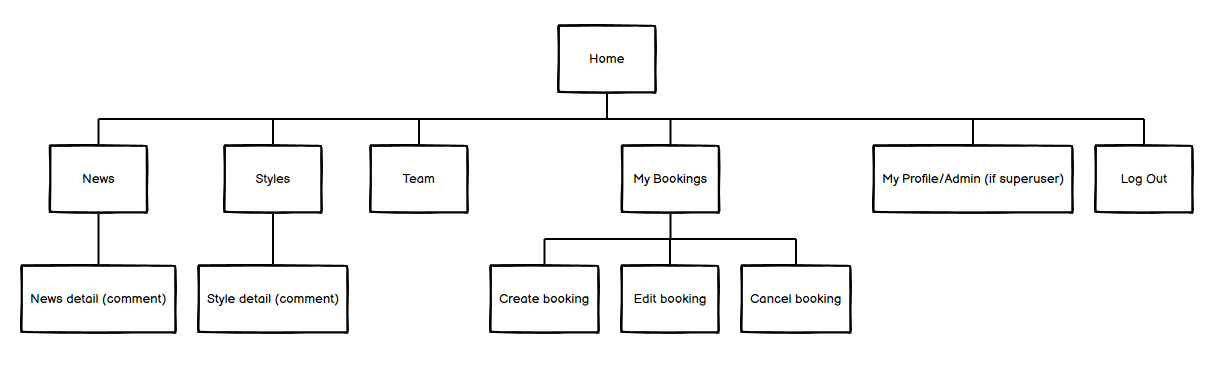
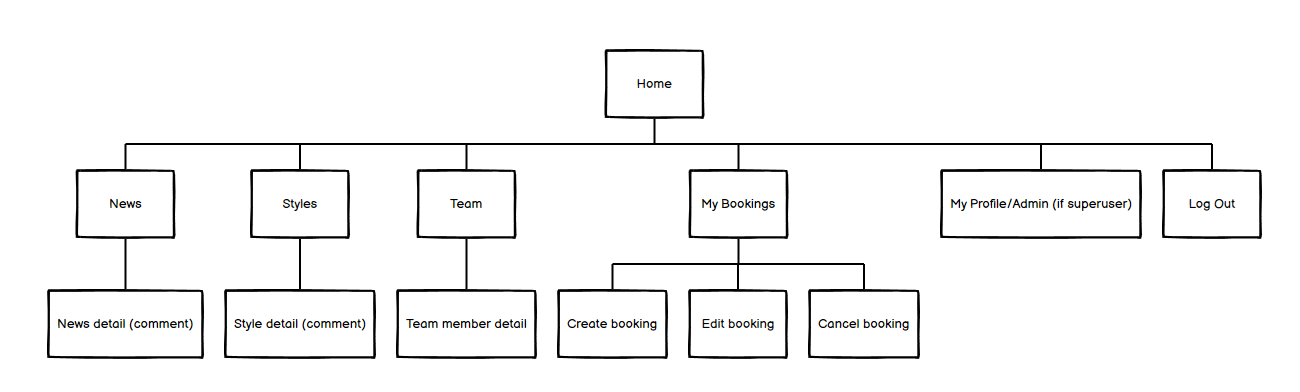
Add 3.3. Structure plane - readme

Changed region(s): [[0.0, 0.1189, 1.0, 0.9216], [0.4572, 0.0595, 0.5486, 0.0892]]

diff --git a/README.md b/README.md
@@ -72,7 +72,7 @@ As a thought process of the strategy plane, 12 epics were created and utilized. 
 
 ### **3.1.5 User stories**
 
-49 User stories were created based on the Epics. Each user story uses the MoSCoW prioritization technique. Each user story was also estimated for relative effort required to implement satisfactory result of acceptance criteria. My Story points are using a sequence inspired by the Fibonacci numbers (1, 2, 3, 5, 8, 13, etc.). This reflects the uncertainty and variability in estimating larger tasks. The idea was to easy distinguish the initial size of user story using this non-linear sequence. Each user story on the kanban board was given 2 labels (MoSCoW and Story Points).
+49 User stories were created based on the Epics. Each user story uses the MoSCoW prioritization technique. Each user story was also estimated for relative effort required to implement satisfactory result of acceptance criteria. My Story points are using a sequence inspired by the Fibonacci numbers (1, 2, 3, 5, 8, 13, etc.). This reflects the uncertainty and variability in estimating larger tasks. The idea was to easy distinguish the initial size of user story using this non-linear sequence. Each user story on the [Kanban Board](https://github.com/users/tomik-z-cech/projects/1/views/1) was given 2 labels (MoSCoW and Story Points).
 
 
 **MoSCoW prioritization technique stands for**:
@@ -259,7 +259,47 @@ View User Stories for EPIC 12 : Custom Admin interface
 
 ## **3.2. The Scope Plane**
 
+After decided on the strategy, the scope plane was created.
+
+### Following features need to be implemented :
+
+- **User Authentication** : Users can Register, Profile pages where users can manage their information and preferences and delete their account (CRUD)
+
+- **News** : Users can see news with titles, content, and images.
+
+- **Styles** : Users can see styles with titles, content, and images.
+
+- **Team** : Users can see team members with names, details, and profile pictures.
+
+- **Liking and Commenting** : Users can Like News Posts and Like/Mark as to Try Available Styles so they can express their interest.Users can also comment on both News Posts and Available Styles to allow them to engage in discussions.
+
+- **Bookings** : Users can create, view, edit or cancel their own bookings (CRUD).
+
+- **Search** : Search bar for users is provided on landing page so users can find specific News Posts, Styles or Team members.
+
+- **Notifications** : Notifications for new , edited and cancelled bookings need to be provided to the user both on screen and via email.
+
 ## **3.3. The Structure Plane**
+
+The following site-maps show how the site is structured to logged in users *( appendix 2 )* and not logged in users *( appendix 3 )*.
+
+*Appendix 2 - Site Map - Logged In*
+
+![Site Map - Logged In](/docs/sitemap-logged.png)
+
+*Appendix 3 - Site Map - Not Logged In*
+
+![Site Map - Not Logged In](/docs/sitemap-notlogged.png)
+
+Following schemas show intended database structure *( appendix 4 )* and the actual database structure generated by Dbeaver *( Appendix 5 )*.
+
+*Appendix 4 - Initial DB schema*
+
+![Site Map - Logged In](/docs/db-schema-sqldraw.png)
+
+*Appendix 5 - DBeaver DB schema and relationships*
+
+![Site Map - Not Logged In](/docs/db-schema-dbeaver.png)
 
 ## **3.4. The Skeleton Plane**
 
